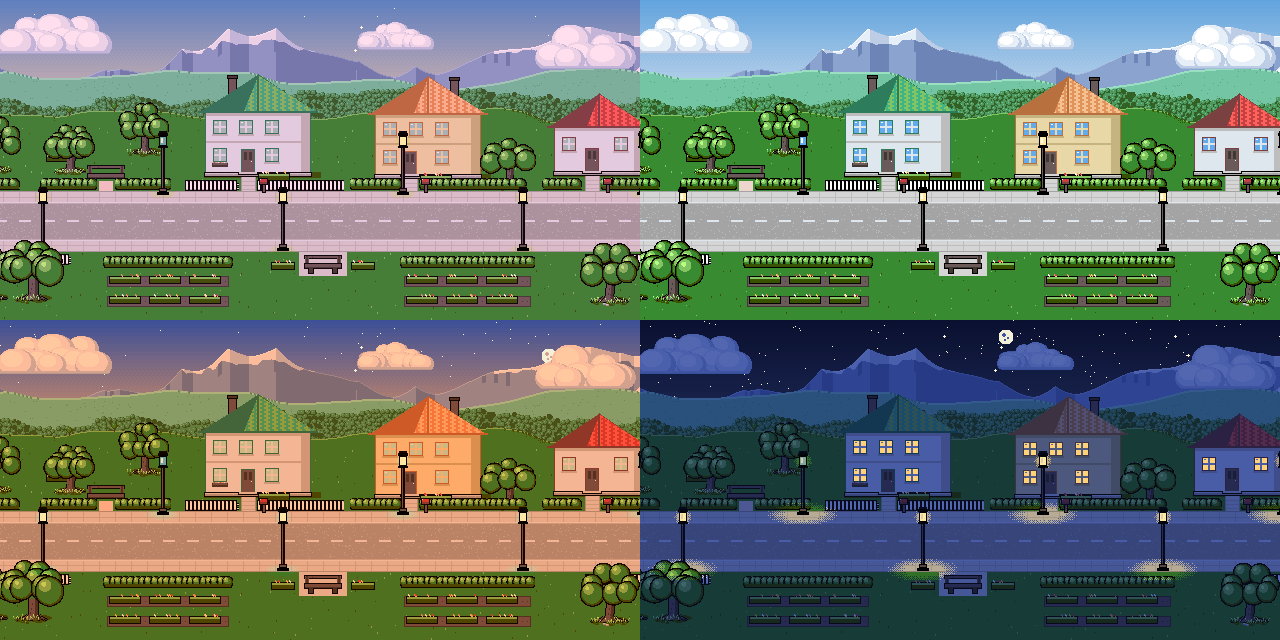
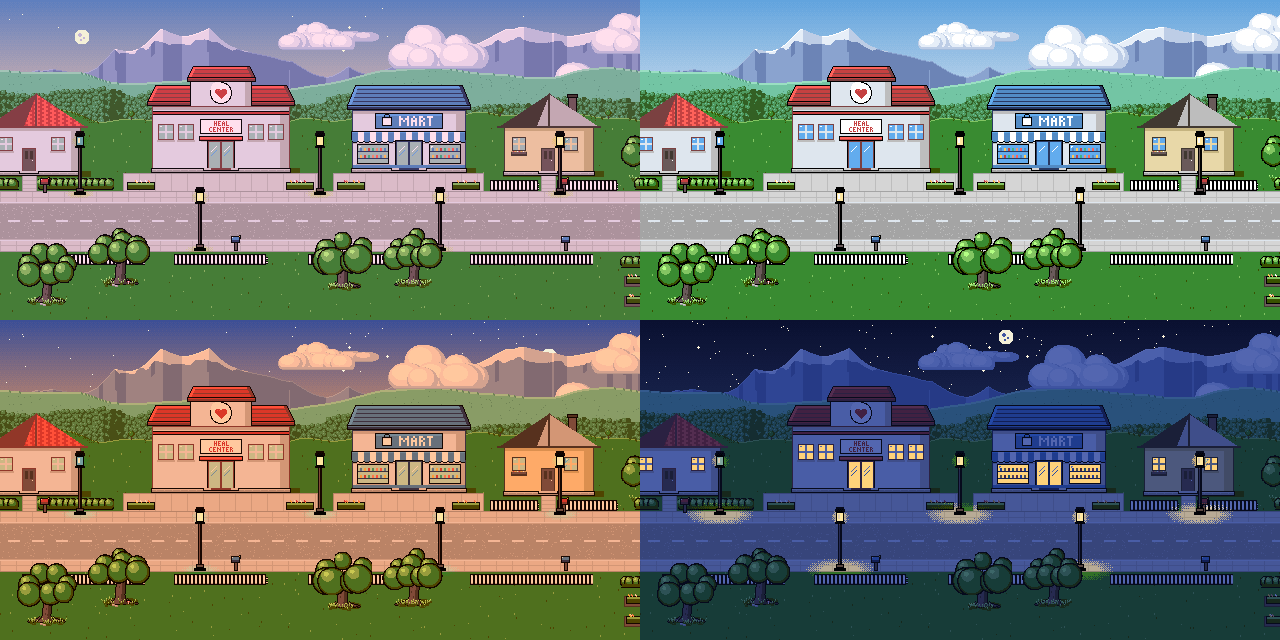
Replace franchise trademarks with original designs
The healing center's sign now reads 'HEAL CENTER' under an original
heart-badge emblem, the mart's sign icon is a shopping bag, and the
app subtitle no longer names the games' region — no borrowed logos or
names appear in the generated world. README screenshots re-rendered.

diff --git a/src/sprites/town.ts b/src/sprites/town.ts
@@ -52,7 +52,7 @@ const HOUSE_STYLES: HouseStyle[] = [
  * A building of the given kind. Houses (one- and two-storey) are varied
  * from `rng` — palette, door position, window layout, chimney, flower
  * box — so a street of them doesn't read as one building copy-pasted; the
- * Poké Center and Mart keep their fixed, recognizable looks since their
+ * healing center and the mart keep their fixed, recognizable looks since their
  * colors are their signage.
  */
 export function buildingPixmap(kind: BuildingKind, rng: RNG): BuildingSprite {
@@ -193,11 +193,10 @@ const GLYPHS: Record<string, string[]> = {
   A: ["010", "101", "111", "101", "101"],
   C: ["011", "100", "100", "100", "011"],
   E: ["111", "100", "110", "100", "111"],
-  K: ["101", "101", "110", "101", "101"],
+  H: ["101", "101", "111", "101", "101"],
+  L: ["100", "100", "100", "100", "111"],
   M: ["10001", "11011", "10101", "10001", "10001"],
   N: ["1001", "1101", "1011", "1001", "1001"],
-  O: ["010", "101", "101", "101", "010"],
-  P: ["110", "101", "110", "100", "100"],
   R: ["110", "101", "110", "101", "101"],
   T: ["111", "010", "010", "010", "010"],
   " ": ["0", "0", "0", "0", "0"],
@@ -250,26 +249,38 @@ function hipRoof(p: Pixmap, x0: number, x1: number, top: number, front: number, 
   p.fillRect(x0, front + 1, x1 - x0 + 1, 1, s.roof);
 }
 
-/** A big pokeball emblem: outlined, red top half, white bottom, banded, with a button and a glint. */
-function pokeball(p: Pixmap, cx: number, cy: number, r: number): void {
+/**
+ * The healing center's emblem: an outlined white badge with a red heart
+ * on it, lit at the upper left — an original mark, so the building reads
+ * as "the place that heals your team" without borrowing anyone's logo.
+ */
+function heartBadge(p: Pixmap, cx: number, cy: number, r: number): void {
   p.fillCircle(cx, cy, r + 1, C.black);
   p.fillCircle(cx, cy, r, C.houseTrim);
-  for (let y = Math.floor(cy - r); y < cy; y++) {
-    for (let x = Math.floor(cx - r); x <= cx + r; x++) {
-      const dx = x + 0.5 - cx;
-      const dy = y + 0.5 - cy;
-      if (dx * dx + dy * dy <= r * r) p.set(x, y, C.houseRoof);
-    }
-  }
-  p.fillCircle(cx - r * 0.4, cy - r * 0.5, r * 0.25, C.houseRoofLight);
-  p.fillRect(Math.round(cx - r), Math.round(cy) - 1, Math.round(2 * r) + 1, 2, C.black);
-  p.fillCircle(cx, cy, r * 0.38, C.black);
-  p.fillCircle(cx, cy, r * 0.24, C.houseTrim);
+  p.fillCircle(cx - r * 0.3, cy - r * 0.35, r * 0.75, C.houseTrim);
+  const h = r * 0.55;
+  p.fillCircle(cx - h * 0.5, cy - h * 0.25, h * 0.55, C.houseRoof);
+  p.fillCircle(cx + h * 0.5, cy - h * 0.25, h * 0.55, C.houseRoof);
+  p.fillTriangle(cx - h * 1.05, cy - h * 0.05, cx + h * 1.05, cy - h * 0.05, cx, cy + h * 1.05, C.houseRoof);
+  p.set(Math.round(cx - h * 0.65), Math.round(cy - h * 0.5), C.houseRoofLight);
+  p.set(Math.round(cx - h * 0.45), Math.round(cy - h * 0.6), C.houseRoofLight);
+}
+
+/** The mart's sign icon: a little white shopping bag with a handle. */
+function bagIcon(p: Pixmap, cx: number, cy: number): void {
+  const x = Math.round(cx - 4);
+  const y = Math.round(cy - 3);
+  p.fillRect(x - 1, y - 1, 10, 9, C.black);
+  p.fillRect(x, y, 8, 7, C.houseTrim);
+  p.fillRect(x, y, 8, 1, C.houseWall);
+  p.fillRect(x + 2, y - 4, 4, 1, C.black);
+  p.fillRect(x + 1, y - 3, 1, 3, C.black);
+  p.fillRect(x + 6, y - 3, 1, 3, C.black);
 }
 
 /**
- * Poké Center, after the Gen-3 look: a wide red hip-roofed hall with a
- * raised central block carrying a big pokeball emblem, a red band
+ * Healing center, after the Gen-3 look: a wide red hip-roofed hall with a
+ * raised central block carrying a big heart-badge emblem, a red band
  * running along the white walls, a lettered sign over a canopy and the
  * sliding glass doors, and framed windows along both wings.
  */
@@ -293,13 +304,13 @@ function centerPixmap(): BuildingSprite {
   p.fillRect(blockL, 15, blockR - blockL, wallTop - 14, s.wall);
   p.fillRect(blockR - 6, 15, 6, wallTop - 14, s.wallShade);
   hipRoof(p, blockL - 3, blockR + 3, 1, 12, s, 6);
-  pokeball(p, cx, 28, 10);
+  heartBadge(p, cx, 28, 10);
 
-  // sign plate over the canopy: "POKEMON CENTER" in two lines
+  // sign plate over the canopy: "HEAL CENTER" in two lines
   const plateTop = wallTop + 14;
   p.fillRect(cx - 21, plateTop, 42, 15, C.black);
   p.fillRect(cx - 20, plateTop + 1, 40, 13, C.houseTrim);
-  drawText(p, "POKEMON", cx, plateTop + 2, s.roof);
+  drawText(p, "HEAL", cx, plateTop + 2, s.roof);
   drawText(p, "CENTER", cx, plateTop + 8, s.roof);
 
   // canopy over the doors, casting a shadow line onto the wall
@@ -318,8 +329,8 @@ function centerPixmap(): BuildingSprite {
 }
 
 /**
- * Poké Mart, after the Gen-3 look: a blue hip roof, a long signboard
- * with a pokeball icon and "MART" in big letters, a blue-and-white
+ * Mart, after the Gen-3 look: a blue hip roof, a long signboard
+ * with a shopping-bag icon and "MART" in big letters, a blue-and-white
  * striped awning with a scalloped edge over the sliding doors, and shop
  * windows with stocked shelves on both sides.
  */
@@ -337,7 +348,7 @@ function martPixmap(): BuildingSprite {
   p.fillRect(cx - 34, signTop, 68, 16, C.black);
   p.fillRect(cx - 33, signTop + 1, 66, 14, s.roof);
   p.fillRect(cx - 33, signTop + 1, 66, 2, s.roofLight);
-  pokeball(p, cx - 22, signTop + 8, 4.5);
+  bagIcon(p, cx - 22, signTop + 8);
   drawText(p, "MART", cx + 7, signTop + 3, C.houseTrim, 2);
 
   // striped awning with a scalloped lower edge

diff --git a/src/world/worldgen.test.ts b/src/world/worldgen.test.ts
@@ -168,7 +168,7 @@ describe("generateChunk golden hash (refactor-safety net)", () => {
   // the number), then update GOLDEN_HASH below to the printed "received" value.
   const GOLDEN_SEEDS = ["1790824785082", "42", "0", "hello world"];
   const GOLDEN_CHUNKS = Array.from({ length: 20 }, (_, i) => i - 5); // -5..14
[2 lines of base64/hex data omitted]
 
   it("matches the recorded golden hash", () => {
     const hash = createHash("sha256");

diff --git a/src/world/town.ts b/src/world/town.ts
@@ -99,7 +99,7 @@ export function findTown(
 /**
  * Lay out a town's lots left to right. North side: mostly houses (one-
  * and two-storey) with the odd park, and — in any town long enough — one
- * Poké Center and one Mart placed side by side at the first lot past the
+ * healing center and one Mart placed side by side at the first lot past the
  * middle of town. Each building lot gets a yard margin beside the
  * building (room for a tree) and small gaps between lots. South side: a
  * looser rhythm of gardens, trees, bench nooks and plain fenced lawns.

diff --git a/src/app.ts b/src/app.ts
@@ -70,7 +70,7 @@ export function boot(root: HTMLElement): void {
   ui.innerHTML = `
     <div class="panel">
       <div class="title">EMERALD FIELD</div>
-      <div class="subtitle">procedural Hoenn-inspired landscape</div>
+      <div class="subtitle">procedural pixel-art landscape</div>
       <div class="seed">seed&nbsp;<span id="seed">${seed}</span></div>
       <div class="controls">
         <button id="left">◀</button>

diff --git a/README.md b/README.md
@@ -10,7 +10,7 @@ An endless, procedurally generated pixel-art landscape you can wander through, i
 
 ![A forest route with a fading trail, mixed groves and a reed-fringed pond](docs/images/forest.png)
 
-**Towns.** Planned towns along a paved street: houses with fenced yards and mailboxes, a Center and a Mart side by side mid-town, street lamps, gardens and bench nooks.
+**Towns.** Planned towns along a paved street: houses with fenced yards and mailboxes, a healing center and a mart side by side mid-town, street lamps, gardens and bench nooks.
 
 ![A town street at midday](docs/images/town.png)
 
